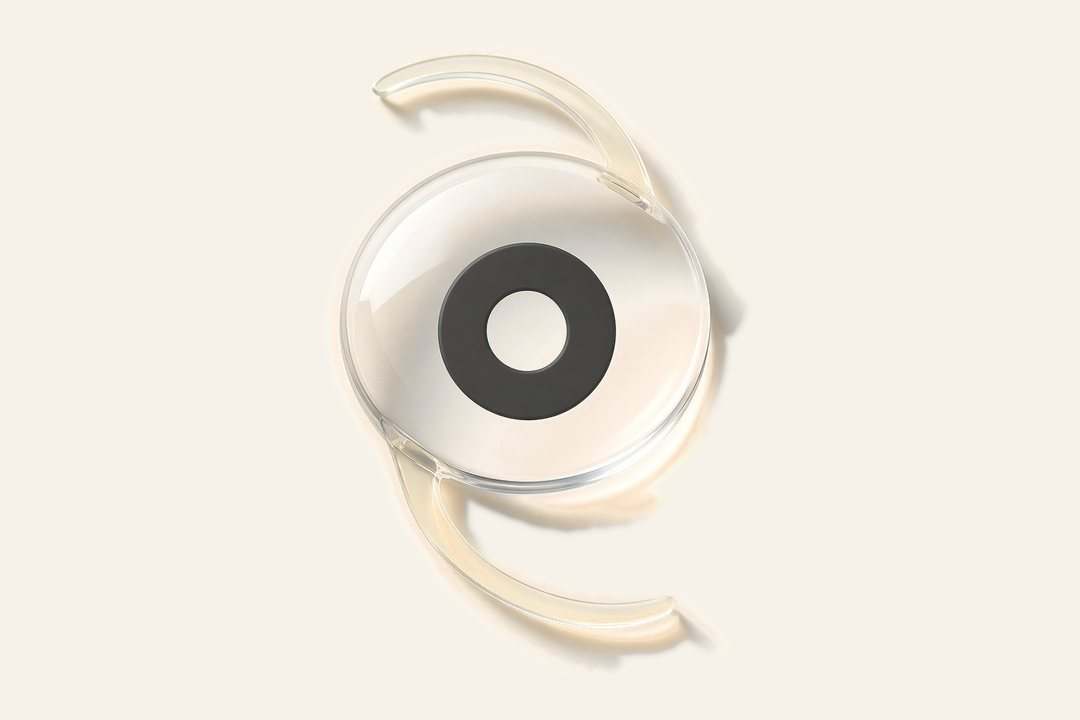
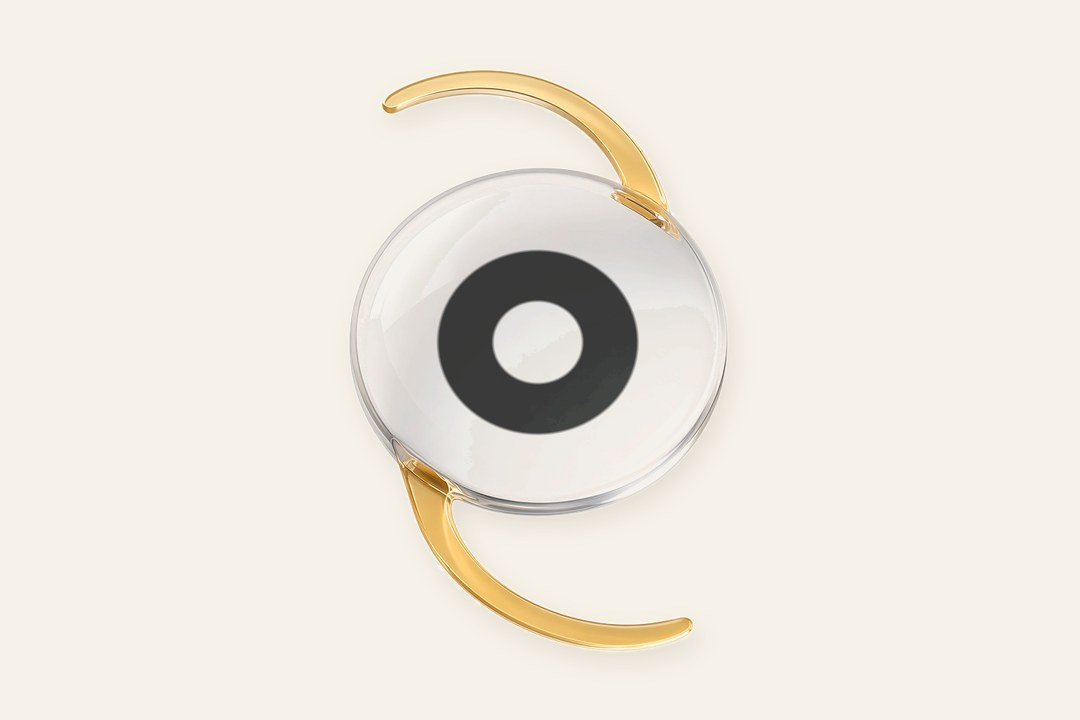
Session visuals v3 polish: clean lens cut-outs, wide focal frame, warm repaints
- Re-cut lens set C (monofocal, EDOF, multifocal) + IC-8 from pure white background:
  no gray haze on optic, smooth contact shadow, warmer amber-gold haptics that read on dimmed cards
- Re-aligned toric rim dots to refined optic ellipse
- Wider focal-points frame showing the entire window; Near / Arm's length / Far labels clear of objects
- Gently warmed repaints toward lens set C

Changed region(s): [[0.3056, 0.0611, 0.7028, 0.9167], [0.4278, 0.3667, 0.6111, 0.6111]]

diff --git a/index.html b/index.html
@@ -976,14 +976,14 @@ body:has(#roadmap:not(:empty)):not(:has(#summary[style*="flex"])) .app-footer{ d
         <div id="lens-map" hidden>
           <svg class="lens-map-defs" width="0" height="0" aria-hidden="true" focusable="false"><defs><filter id="lm-shadow" x="-10%" y="-10%" width="120%" height="130%"><feDropShadow dx="0" dy="5" stdDeviation="7" flood-color="#1F3D2C" flood-opacity=".10"/></filter></defs></svg>
           <svg class="lens-map lens-map-wide" viewBox="0 0 720 420" role="img" aria-label="Three lens categories: monofocal, EDOF (extended range) and multifocal (full range), each with the ranges it is designed for.">
-          <g class="lz" data-zone="monofocal" transform="translate(12,12)"><rect class="lz-card" width="224" height="396" rx="26"/><g class="lz-art"><image class="lz-img" data-href="images/session/v3/lens-monofocal.png" x="21" y="14" width="182" height="182"/><g class="lz-toric"><circle cx="62.0" cy="94.1" r="2.4"/><circle cx="67.5" cy="94.1" r="2.4"/><circle cx="73.0" cy="94.1" r="2.4"/><circle cx="154.0" cy="94.1" r="2.4"/><circle cx="148.5" cy="94.1" r="2.4"/><circle cx="143.0" cy="94.1" r="2.4"/></g></g><text class="lz-name" x="112" y="222" text-anchor="middle" font-size="28">Monofocal</text><text class="lz-tag" x="112" y="252" text-anchor="middle" font-size="15">ONE FOCAL POINT</text><circle class="lz-dot" data-range="near" cx="52" cy="300" r="11"/><text class="lz-rl" data-range="near" x="52" y="338" font-size="17">Near</text><circle class="lz-dot" data-range="arms" cx="112" cy="300" r="11"/><text class="lz-rl" data-range="arms" x="112" y="338" font-size="17">Arm’s</text><circle class="lz-dot" data-range="far" cx="172" cy="300" r="11"/><text class="lz-rl" data-range="far" x="172" y="338" font-size="17">Far</text><text class="lz-fam" x="112" y="374" text-anchor="middle" font-size="15">Includes enhanced monofocal</text></g>
-          <g class="lz" data-zone="edof" transform="translate(248,12)"><rect class="lz-card" width="224" height="396" rx="26"/><g class="lz-art"><image class="lz-img" data-href="images/session/v3/lens-edof.png" x="21" y="14" width="182" height="182"/><g class="lz-toric"><circle cx="62.0" cy="94.1" r="2.4"/><circle cx="67.5" cy="94.1" r="2.4"/><circle cx="73.0" cy="94.1" r="2.4"/><circle cx="154.0" cy="94.1" r="2.4"/><circle cx="148.5" cy="94.1" r="2.4"/><circle cx="143.0" cy="94.1" r="2.4"/></g></g><text class="lz-name" x="112" y="222" text-anchor="middle" font-size="28">EDOF</text><text class="lz-tag" x="112" y="252" text-anchor="middle" font-size="15">EXTENDED RANGE</text><path class="lz-span" d="M112,300 H172"/><circle class="lz-dot" data-range="near" cx="52" cy="300" r="11"/><text class="lz-rl" data-range="near" x="52" y="338" font-size="17">Near</text><circle class="lz-dot on" data-range="arms" cx="112" cy="300" r="11"/><text class="lz-rl" data-range="arms" x="112" y="338" font-size="17">Arm’s</text><circle class="lz-dot on" data-range="far" cx="172" cy="300" r="11"/><text class="lz-rl" data-range="far" x="172" y="338" font-size="17">Far</text><text class="lz-fam" x="112" y="374" text-anchor="middle" font-size="15">Extended depth of focus</text></g>
-          <g class="lz" data-zone="multifocal" transform="translate(484,12)"><rect class="lz-card" width="224" height="396" rx="26"/><g class="lz-art"><image class="lz-img" data-href="images/session/v3/lens-multifocal.png" x="21" y="14" width="182" height="182"/><g class="lz-toric"><circle cx="62.0" cy="94.1" r="2.4"/><circle cx="67.5" cy="94.1" r="2.4"/><circle cx="73.0" cy="94.1" r="2.4"/><circle cx="154.0" cy="94.1" r="2.4"/><circle cx="148.5" cy="94.1" r="2.4"/><circle cx="143.0" cy="94.1" r="2.4"/></g></g><text class="lz-name" x="112" y="222" text-anchor="middle" font-size="28">Multifocal</text><text class="lz-tag" x="112" y="252" text-anchor="middle" font-size="15">FULL RANGE</text><path class="lz-span" d="M52,300 H172"/><circle class="lz-dot on" data-range="near" cx="52" cy="300" r="11"/><text class="lz-rl" data-range="near" x="52" y="338" font-size="17">Near</text><circle class="lz-dot on" data-range="arms" cx="112" cy="300" r="11"/><text class="lz-rl" data-range="arms" x="112" y="338" font-size="17">Arm’s</text><circle class="lz-dot on" data-range="far" cx="172" cy="300" r="11"/><text class="lz-rl" data-range="far" x="172" y="338" font-size="17">Far</text><text class="lz-fam" x="112" y="374" text-anchor="middle" font-size="15">Includes trifocal</text></g>
+          <g class="lz" data-zone="monofocal" transform="translate(12,12)"><rect class="lz-card" width="224" height="396" rx="26"/><g class="lz-art"><image class="lz-img" data-href="images/session/v3/lens-monofocal.png" x="21" y="14" width="182" height="182"/><g class="lz-toric"><circle cx="64.2" cy="100.0" r="2.4"/><circle cx="69.2" cy="100.0" r="2.4"/><circle cx="74.2" cy="100.0" r="2.4"/><circle cx="158.4" cy="100.0" r="2.4"/><circle cx="153.4" cy="100.0" r="2.4"/><circle cx="148.4" cy="100.0" r="2.4"/></g></g><text class="lz-name" x="112" y="222" text-anchor="middle" font-size="28">Monofocal</text><text class="lz-tag" x="112" y="252" text-anchor="middle" font-size="15">ONE FOCAL POINT</text><circle class="lz-dot" data-range="near" cx="52" cy="300" r="11"/><text class="lz-rl" data-range="near" x="52" y="338" font-size="17">Near</text><circle class="lz-dot" data-range="arms" cx="112" cy="300" r="11"/><text class="lz-rl" data-range="arms" x="112" y="338" font-size="17">Arm’s</text><circle class="lz-dot" data-range="far" cx="172" cy="300" r="11"/><text class="lz-rl" data-range="far" x="172" y="338" font-size="17">Far</text><text class="lz-fam" x="112" y="374" text-anchor="middle" font-size="15">Includes enhanced monofocal</text></g>
+          <g class="lz" data-zone="edof" transform="translate(248,12)"><rect class="lz-card" width="224" height="396" rx="26"/><g class="lz-art"><image class="lz-img" data-href="images/session/v3/lens-edof.png" x="21" y="14" width="182" height="182"/><g class="lz-toric"><circle cx="64.2" cy="100.0" r="2.4"/><circle cx="69.2" cy="100.0" r="2.4"/><circle cx="74.2" cy="100.0" r="2.4"/><circle cx="158.4" cy="100.0" r="2.4"/><circle cx="153.4" cy="100.0" r="2.4"/><circle cx="148.4" cy="100.0" r="2.4"/></g></g><text class="lz-name" x="112" y="222" text-anchor="middle" font-size="28">EDOF</text><text class="lz-tag" x="112" y="252" text-anchor="middle" font-size="15">EXTENDED RANGE</text><path class="lz-span" d="M112,300 H172"/><circle class="lz-dot" data-range="near" cx="52" cy="300" r="11"/><text class="lz-rl" data-range="near" x="52" y="338" font-size="17">Near</text><circle class="lz-dot on" data-range="arms" cx="112" cy="300" r="11"/><text class="lz-rl" data-range="arms" x="112" y="338" font-size="17">Arm’s</text><circle class="lz-dot on" data-range="far" cx="172" cy="300" r="11"/><text class="lz-rl" data-range="far" x="172" y="338" font-size="17">Far</text><text class="lz-fam" x="112" y="374" text-anchor="middle" font-size="15">Extended depth of focus</text></g>
+          <g class="lz" data-zone="multifocal" transform="translate(484,12)"><rect class="lz-card" width="224" height="396" rx="26"/><g class="lz-art"><image class="lz-img" data-href="images/session/v3/lens-multifocal.png" x="21" y="14" width="182" height="182"/><g class="lz-toric"><circle cx="64.2" cy="100.0" r="2.4"/><circle cx="69.2" cy="100.0" r="2.4"/><circle cx="74.2" cy="100.0" r="2.4"/><circle cx="158.4" cy="100.0" r="2.4"/><circle cx="153.4" cy="100.0" r="2.4"/><circle cx="148.4" cy="100.0" r="2.4"/></g></g><text class="lz-name" x="112" y="222" text-anchor="middle" font-size="28">Multifocal</text><text class="lz-tag" x="112" y="252" text-anchor="middle" font-size="15">FULL RANGE</text><path class="lz-span" d="M52,300 H172"/><circle class="lz-dot on" data-range="near" cx="52" cy="300" r="11"/><text class="lz-rl" data-range="near" x="52" y="338" font-size="17">Near</text><circle class="lz-dot on" data-range="arms" cx="112" cy="300" r="11"/><text class="lz-rl" data-range="arms" x="112" y="338" font-size="17">Arm’s</text><circle class="lz-dot on" data-range="far" cx="172" cy="300" r="11"/><text class="lz-rl" data-range="far" x="172" y="338" font-size="17">Far</text><text class="lz-fam" x="112" y="374" text-anchor="middle" font-size="15">Includes trifocal</text></g>
           </svg>
           <svg class="lens-map lens-map-tall" viewBox="0 0 360 438" role="img" aria-label="Three lens categories: monofocal, EDOF (extended range) and multifocal (full range), each with the ranges it is designed for.">
-          <g class="lz" data-zone="monofocal" transform="translate(6,6)"><rect class="lz-card" width="348" height="134" rx="22"/><g class="lz-art"><image class="lz-img" data-href="images/session/v3/lens-monofocal.png" x="4" y="5" width="124" height="124"/><g class="lz-toric"><circle cx="32.1" cy="59.6" r="2"/><circle cx="36.6" cy="59.6" r="2"/><circle cx="41.1" cy="59.6" r="2"/><circle cx="94.5" cy="59.6" r="2"/><circle cx="90.0" cy="59.6" r="2"/><circle cx="85.5" cy="59.6" r="2"/></g></g><text class="lz-name" x="132" y="44" font-size="25">Monofocal</text><text class="lz-tag" x="132" y="66" font-size="13">ONE FOCAL POINT</text><circle class="lz-dot" data-range="near" cx="150" cy="94" r="9"/><text class="lz-rl" data-range="near" x="150" y="124" font-size="14">Near</text><circle class="lz-dot" data-range="arms" cx="222" cy="94" r="9"/><text class="lz-rl" data-range="arms" x="222" y="124" font-size="14">Arm’s</text><circle class="lz-dot" data-range="far" cx="294" cy="94" r="9"/><text class="lz-rl" data-range="far" x="294" y="124" font-size="14">Far</text></g>
-          <g class="lz" data-zone="edof" transform="translate(6,150)"><rect class="lz-card" width="348" height="134" rx="22"/><g class="lz-art"><image class="lz-img" data-href="images/session/v3/lens-edof.png" x="4" y="5" width="124" height="124"/><g class="lz-toric"><circle cx="32.1" cy="59.6" r="2"/><circle cx="36.6" cy="59.6" r="2"/><circle cx="41.1" cy="59.6" r="2"/><circle cx="94.5" cy="59.6" r="2"/><circle cx="90.0" cy="59.6" r="2"/><circle cx="85.5" cy="59.6" r="2"/></g></g><text class="lz-name" x="132" y="44" font-size="25">EDOF</text><text class="lz-tag" x="132" y="66" font-size="13">EXTENDED RANGE</text><path class="lz-span" d="M222,94 H294"/><circle class="lz-dot" data-range="near" cx="150" cy="94" r="9"/><text class="lz-rl" data-range="near" x="150" y="124" font-size="14">Near</text><circle class="lz-dot on" data-range="arms" cx="222" cy="94" r="9"/><text class="lz-rl" data-range="arms" x="222" y="124" font-size="14">Arm’s</text><circle class="lz-dot on" data-range="far" cx="294" cy="94" r="9"/><text class="lz-rl" data-range="far" x="294" y="124" font-size="14">Far</text></g>
-          <g class="lz" data-zone="multifocal" transform="translate(6,294)"><rect class="lz-card" width="348" height="134" rx="22"/><g class="lz-art"><image class="lz-img" data-href="images/session/v3/lens-multifocal.png" x="4" y="5" width="124" height="124"/><g class="lz-toric"><circle cx="32.1" cy="59.6" r="2"/><circle cx="36.6" cy="59.6" r="2"/><circle cx="41.1" cy="59.6" r="2"/><circle cx="94.5" cy="59.6" r="2"/><circle cx="90.0" cy="59.6" r="2"/><circle cx="85.5" cy="59.6" r="2"/></g></g><text class="lz-name" x="132" y="44" font-size="25">Multifocal</text><text class="lz-tag" x="132" y="66" font-size="13">FULL RANGE</text><path class="lz-span" d="M150,94 H294"/><circle class="lz-dot on" data-range="near" cx="150" cy="94" r="9"/><text class="lz-rl" data-range="near" x="150" y="124" font-size="14">Near</text><circle class="lz-dot on" data-range="arms" cx="222" cy="94" r="9"/><text class="lz-rl" data-range="arms" x="222" y="124" font-size="14">Arm’s</text><circle class="lz-dot on" data-range="far" cx="294" cy="94" r="9"/><text class="lz-rl" data-range="far" x="294" y="124" font-size="14">Far</text></g>
+          <g class="lz" data-zone="monofocal" transform="translate(6,6)"><rect class="lz-card" width="348" height="134" rx="22"/><g class="lz-art"><image class="lz-img" data-href="images/session/v3/lens-monofocal.png" x="4" y="5" width="124" height="124"/><g class="lz-toric"><circle cx="33.6" cy="63.6" r="1.9"/><circle cx="37.6" cy="63.6" r="1.9"/><circle cx="41.6" cy="63.6" r="1.9"/><circle cx="97.4" cy="63.6" r="1.9"/><circle cx="93.4" cy="63.6" r="1.9"/><circle cx="89.4" cy="63.6" r="1.9"/></g></g><text class="lz-name" x="132" y="44" font-size="25">Monofocal</text><text class="lz-tag" x="132" y="66" font-size="13">ONE FOCAL POINT</text><circle class="lz-dot" data-range="near" cx="150" cy="94" r="9"/><text class="lz-rl" data-range="near" x="150" y="124" font-size="14">Near</text><circle class="lz-dot" data-range="arms" cx="222" cy="94" r="9"/><text class="lz-rl" data-range="arms" x="222" y="124" font-size="14">Arm’s</text><circle class="lz-dot" data-range="far" cx="294" cy="94" r="9"/><text class="lz-rl" data-range="far" x="294" y="124" font-size="14">Far</text></g>
+          <g class="lz" data-zone="edof" transform="translate(6,150)"><rect class="lz-card" width="348" height="134" rx="22"/><g class="lz-art"><image class="lz-img" data-href="images/session/v3/lens-edof.png" x="4" y="5" width="124" height="124"/><g class="lz-toric"><circle cx="33.6" cy="63.6" r="1.9"/><circle cx="37.6" cy="63.6" r="1.9"/><circle cx="41.6" cy="63.6" r="1.9"/><circle cx="97.4" cy="63.6" r="1.9"/><circle cx="93.4" cy="63.6" r="1.9"/><circle cx="89.4" cy="63.6" r="1.9"/></g></g><text class="lz-name" x="132" y="44" font-size="25">EDOF</text><text class="lz-tag" x="132" y="66" font-size="13">EXTENDED RANGE</text><path class="lz-span" d="M222,94 H294"/><circle class="lz-dot" data-range="near" cx="150" cy="94" r="9"/><text class="lz-rl" data-range="near" x="150" y="124" font-size="14">Near</text><circle class="lz-dot on" data-range="arms" cx="222" cy="94" r="9"/><text class="lz-rl" data-range="arms" x="222" y="124" font-size="14">Arm’s</text><circle class="lz-dot on" data-range="far" cx="294" cy="94" r="9"/><text class="lz-rl" data-range="far" x="294" y="124" font-size="14">Far</text></g>
+          <g class="lz" data-zone="multifocal" transform="translate(6,294)"><rect class="lz-card" width="348" height="134" rx="22"/><g class="lz-art"><image class="lz-img" data-href="images/session/v3/lens-multifocal.png" x="4" y="5" width="124" height="124"/><g class="lz-toric"><circle cx="33.6" cy="63.6" r="1.9"/><circle cx="37.6" cy="63.6" r="1.9"/><circle cx="41.6" cy="63.6" r="1.9"/><circle cx="97.4" cy="63.6" r="1.9"/><circle cx="93.4" cy="63.6" r="1.9"/><circle cx="89.4" cy="63.6" r="1.9"/></g></g><text class="lz-name" x="132" y="44" font-size="25">Multifocal</text><text class="lz-tag" x="132" y="66" font-size="13">FULL RANGE</text><path class="lz-span" d="M150,94 H294"/><circle class="lz-dot on" data-range="near" cx="150" cy="94" r="9"/><text class="lz-rl" data-range="near" x="150" y="124" font-size="14">Near</text><circle class="lz-dot on" data-range="arms" cx="222" cy="94" r="9"/><text class="lz-rl" data-range="arms" x="222" y="124" font-size="14">Arm’s</text><circle class="lz-dot on" data-range="far" cx="294" cy="94" r="9"/><text class="lz-rl" data-range="far" x="294" y="124" font-size="14">Far</text></g>
           </svg>
         </div>
                 <div id="goals-map" hidden>
@@ -2013,9 +2013,9 @@ const VISUALS_MANIFEST = {
       src: 'images/session/v3/focal.jpg',
       alt: 'Near, arm\u2019s length and far: an open book and reading glasses up close, a laptop at arm\u2019s length, and a road through the window far away.',
       overlay: [
-        { t: 'text', x: 176, y: 452, anchor: 'middle', cls: 'ov-label', s: 'Near' },
-        { t: 'text', x: 420, y: 452, anchor: 'middle', cls: 'ov-label', s: 'Arm\u2019s length' },
-        { t: 'text', x: 638, y: 452, anchor: 'middle', cls: 'ov-label', s: 'Far' },
+        { t: 'text', x: 135, y: 446, anchor: 'middle', cls: 'ov-label', s: 'Near' },
+        { t: 'text', x: 405, y: 446, anchor: 'middle', cls: 'ov-label', s: 'Arm\u2019s length' },
+        { t: 'text', x: 615, y: 446, anchor: 'middle', cls: 'ov-label', s: 'Far' },
       ],
       caption: 'A focal point is a range where vision is clearest without glasses: near, arm\u2019s length or far.',
       kicker: 'Focal points',
